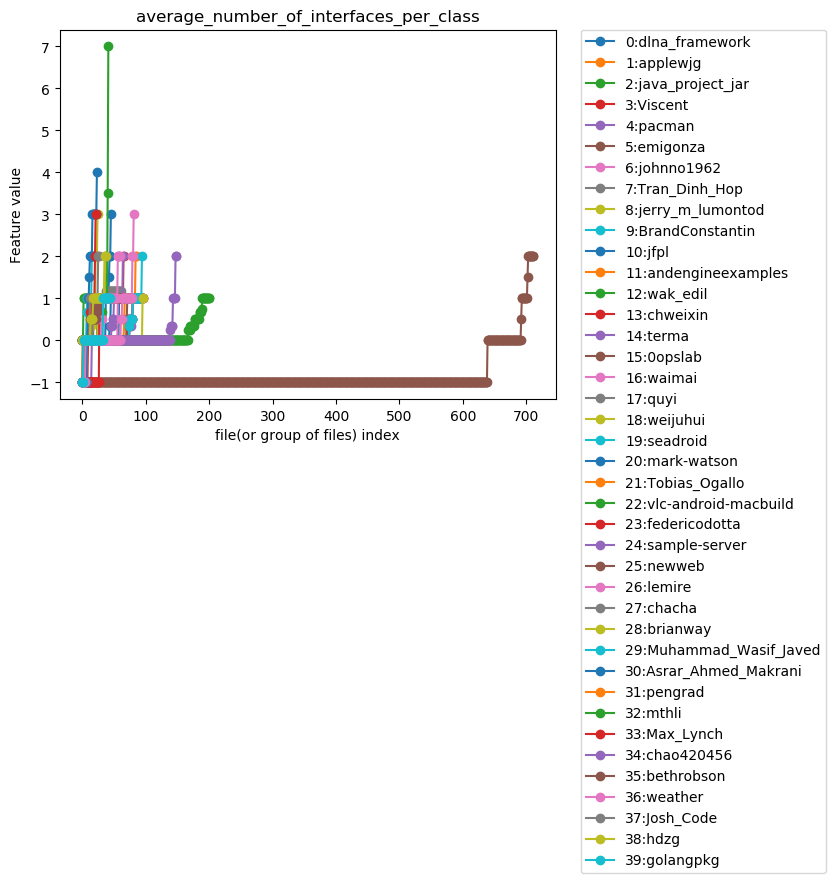
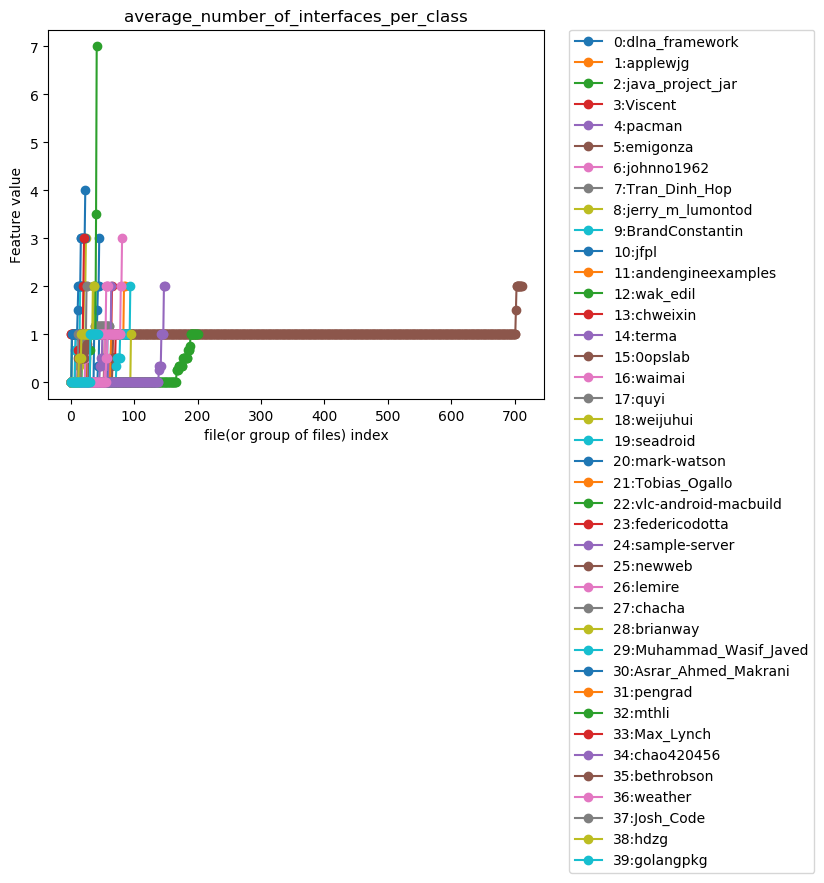
a / 0 = 1 is better. acc is 0.745

diff --git a/psob_authorship/features/utils.py b/psob_authorship/features/utils.py
@@ -39,21 +39,21 @@ def get_absfilepaths(file_or_dir):
 
 
 def divide_percentage_with_handling_zero_division(numerator, denominator, logger: logging.Logger,
-                                                  log_information, zero_division_return=float(-1)):
+                                                  log_information, zero_division_return=1.0):
     result = divide_with_handling_zero_division(numerator, denominator, logger,
                                                 log_information, (0, 1), zero_division_return)
     return zero_division_return if result == zero_division_return else result * 100
 
 
 def divide_ratio_with_handling_zero_division(numerator, denominator, logger: logging.Logger,
-                                             log_information, zero_division_return=float(-1)):
+                                             log_information, zero_division_return=1.0):
     return divide_with_handling_zero_division(numerator, denominator, logger,
                                               log_information, (0, 1), zero_division_return)
 
 
 def divide_nonnegative_with_handling_zero_division(numerator, denominator, logger: logging.Logger,
                                                    log_information, take_log10=False, log_from_zero=-100.0,
-                                                   zero_division_return=-1.0):
+                                                   zero_division_return=1.0):
     result = divide_with_handling_zero_division(numerator, denominator, logger,
                                                 log_information, (0, float("inf")), zero_division_return)
     if result == zero_division_return:
@@ -64,7 +64,7 @@ def divide_nonnegative_with_handling_zero_division(numerator, denominator, logge
 
 
 def divide_with_handling_zero_division(numerator, denominator, logger: logging.Logger, log_information,
-                                       expected_bounds: Tuple[float, float], zero_division_return=float(-1)):
+                                       expected_bounds: Tuple[float, float], zero_division_return=1.0):
     if denominator == 0:
         logger.warning("SUSPICIOUS ZERO DIVISION: " + log_information)
         return zero_division_return

diff --git a/psob_authorship/experiment/one_split_fit.py b/psob_authorship/experiment/one_split_fit.py
@@ -13,7 +13,7 @@ from psob_authorship.model.Model import Model
 
 CONFIG = {
     'experiment_name': os.path.basename(__file__).split('.')[0],
-    'experiment_notes': "change: log10 only from 5th metric",
+    'experiment_notes': "change: a / 0 = 1, not -1",
     'number_of_authors': 40,
     'labels_features_common_name': "../calculated_features/extracted_for_each_file",
     'metrics': [0, 1, 2, 3, 4, 5, 6, 7, 8, 9, 10, 11, 12, 13, 14, 15, 16, 17, 18],
